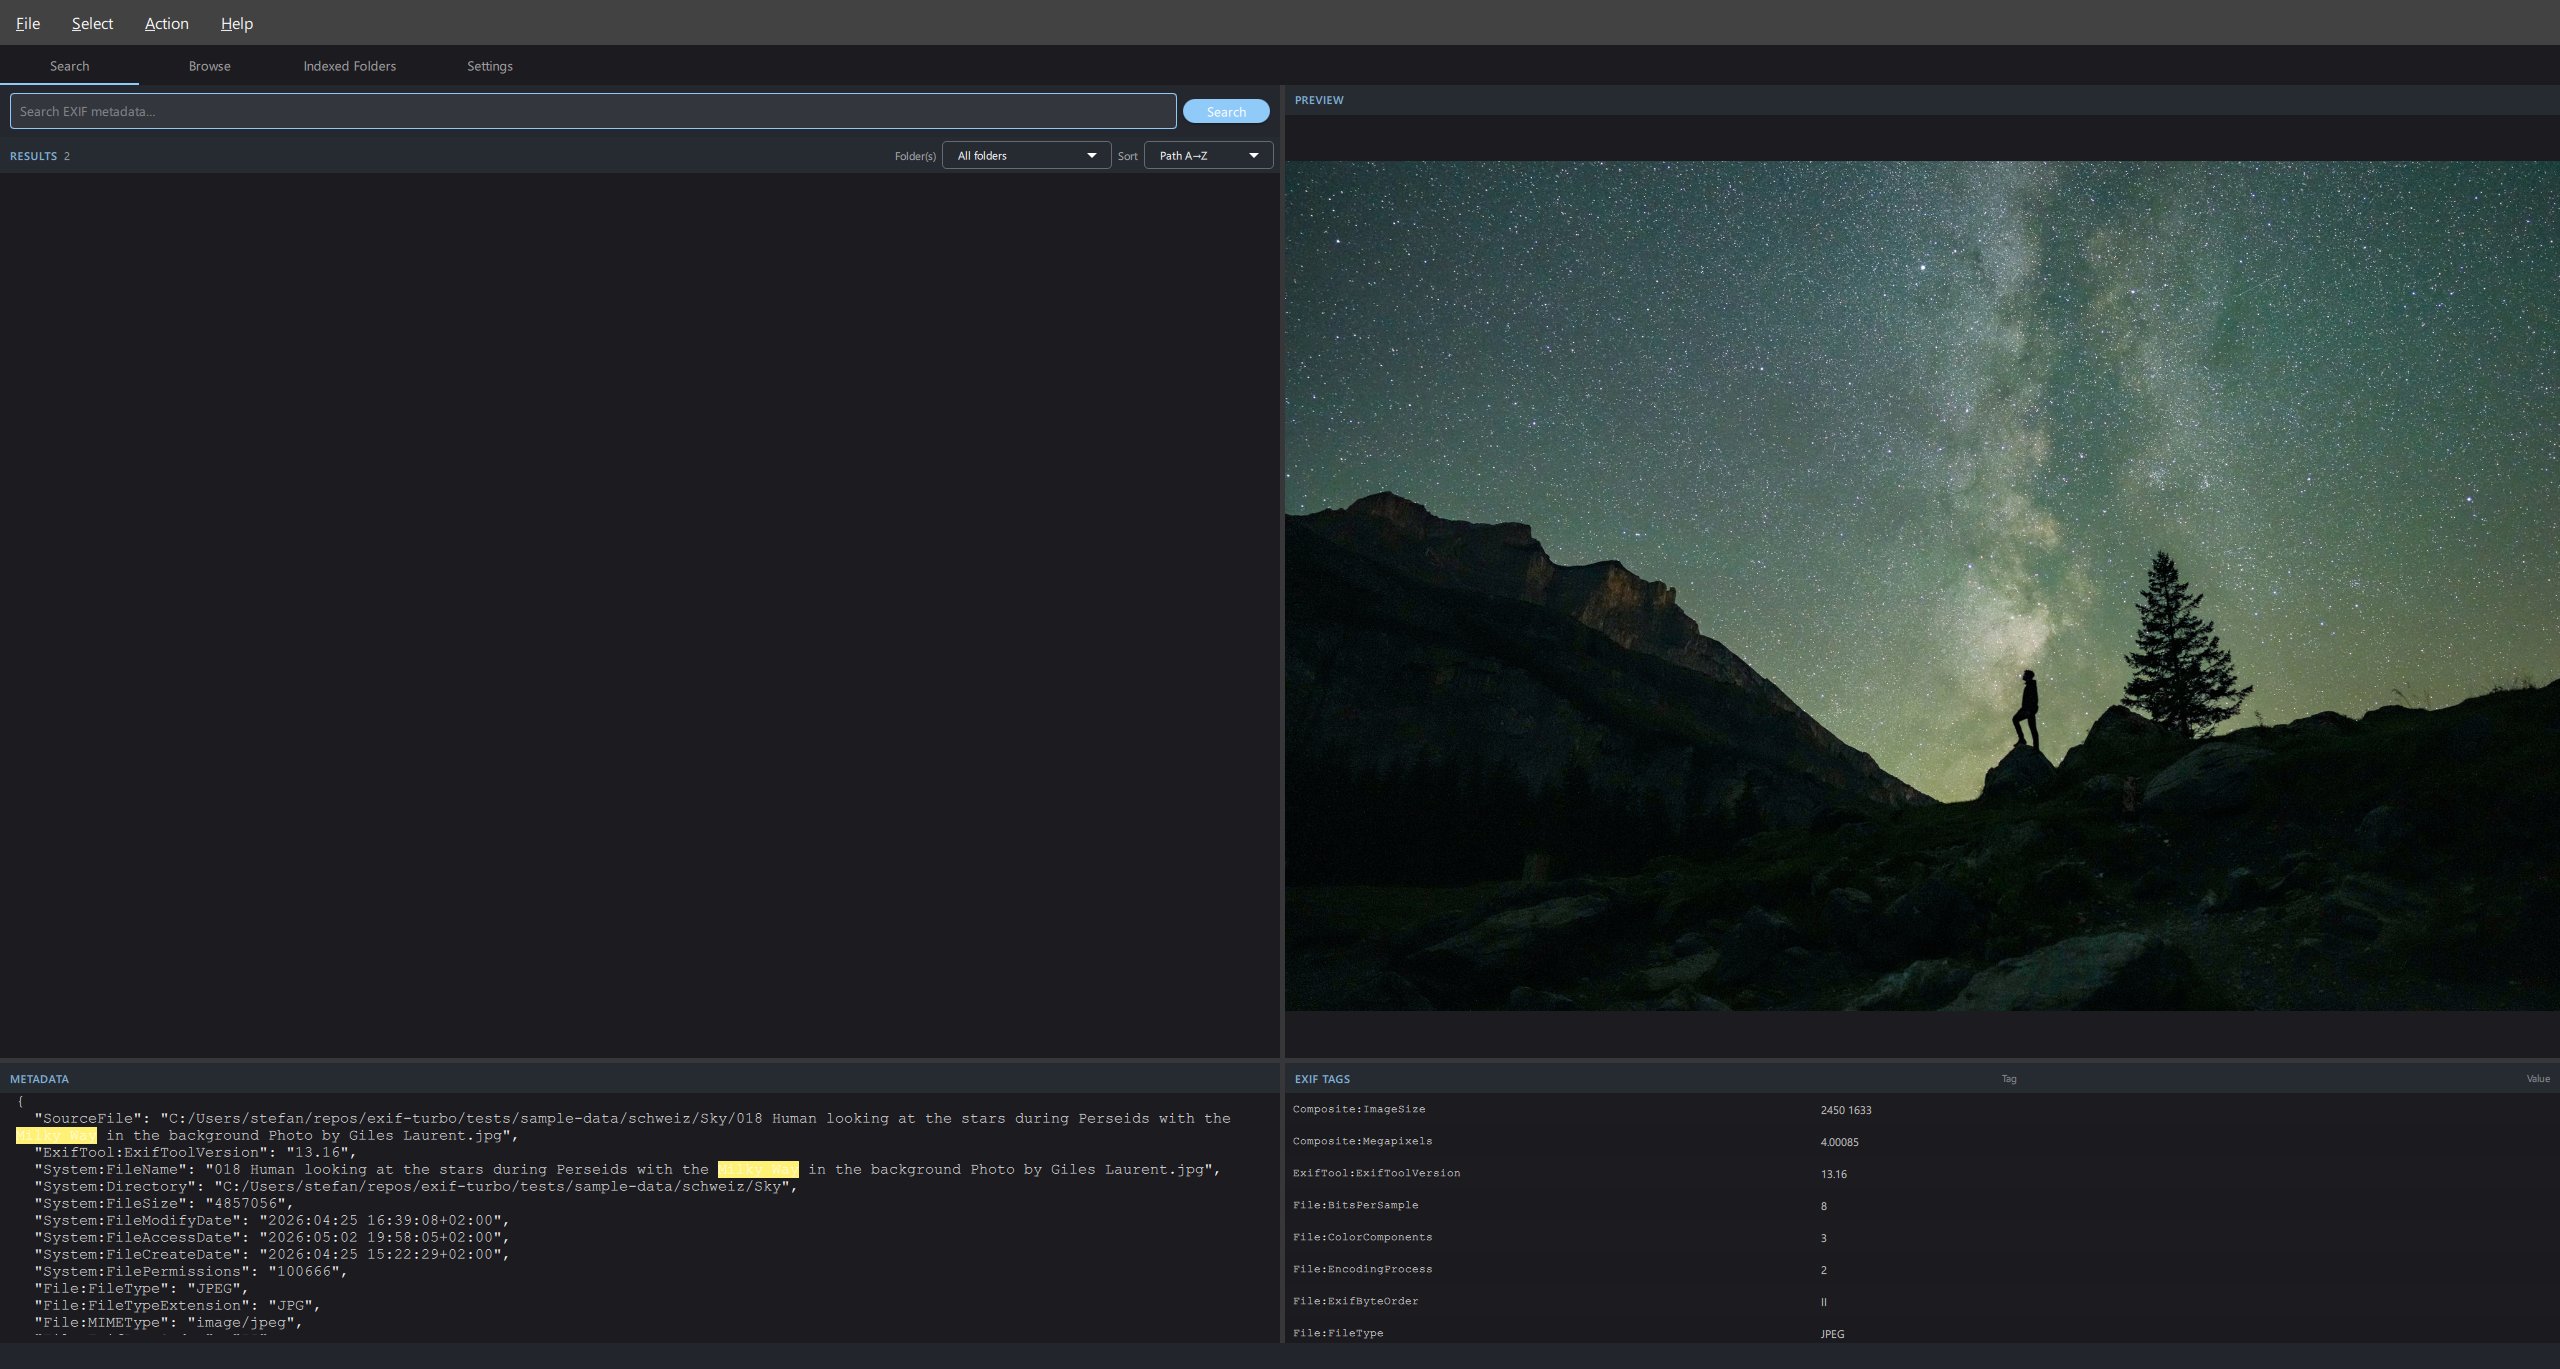
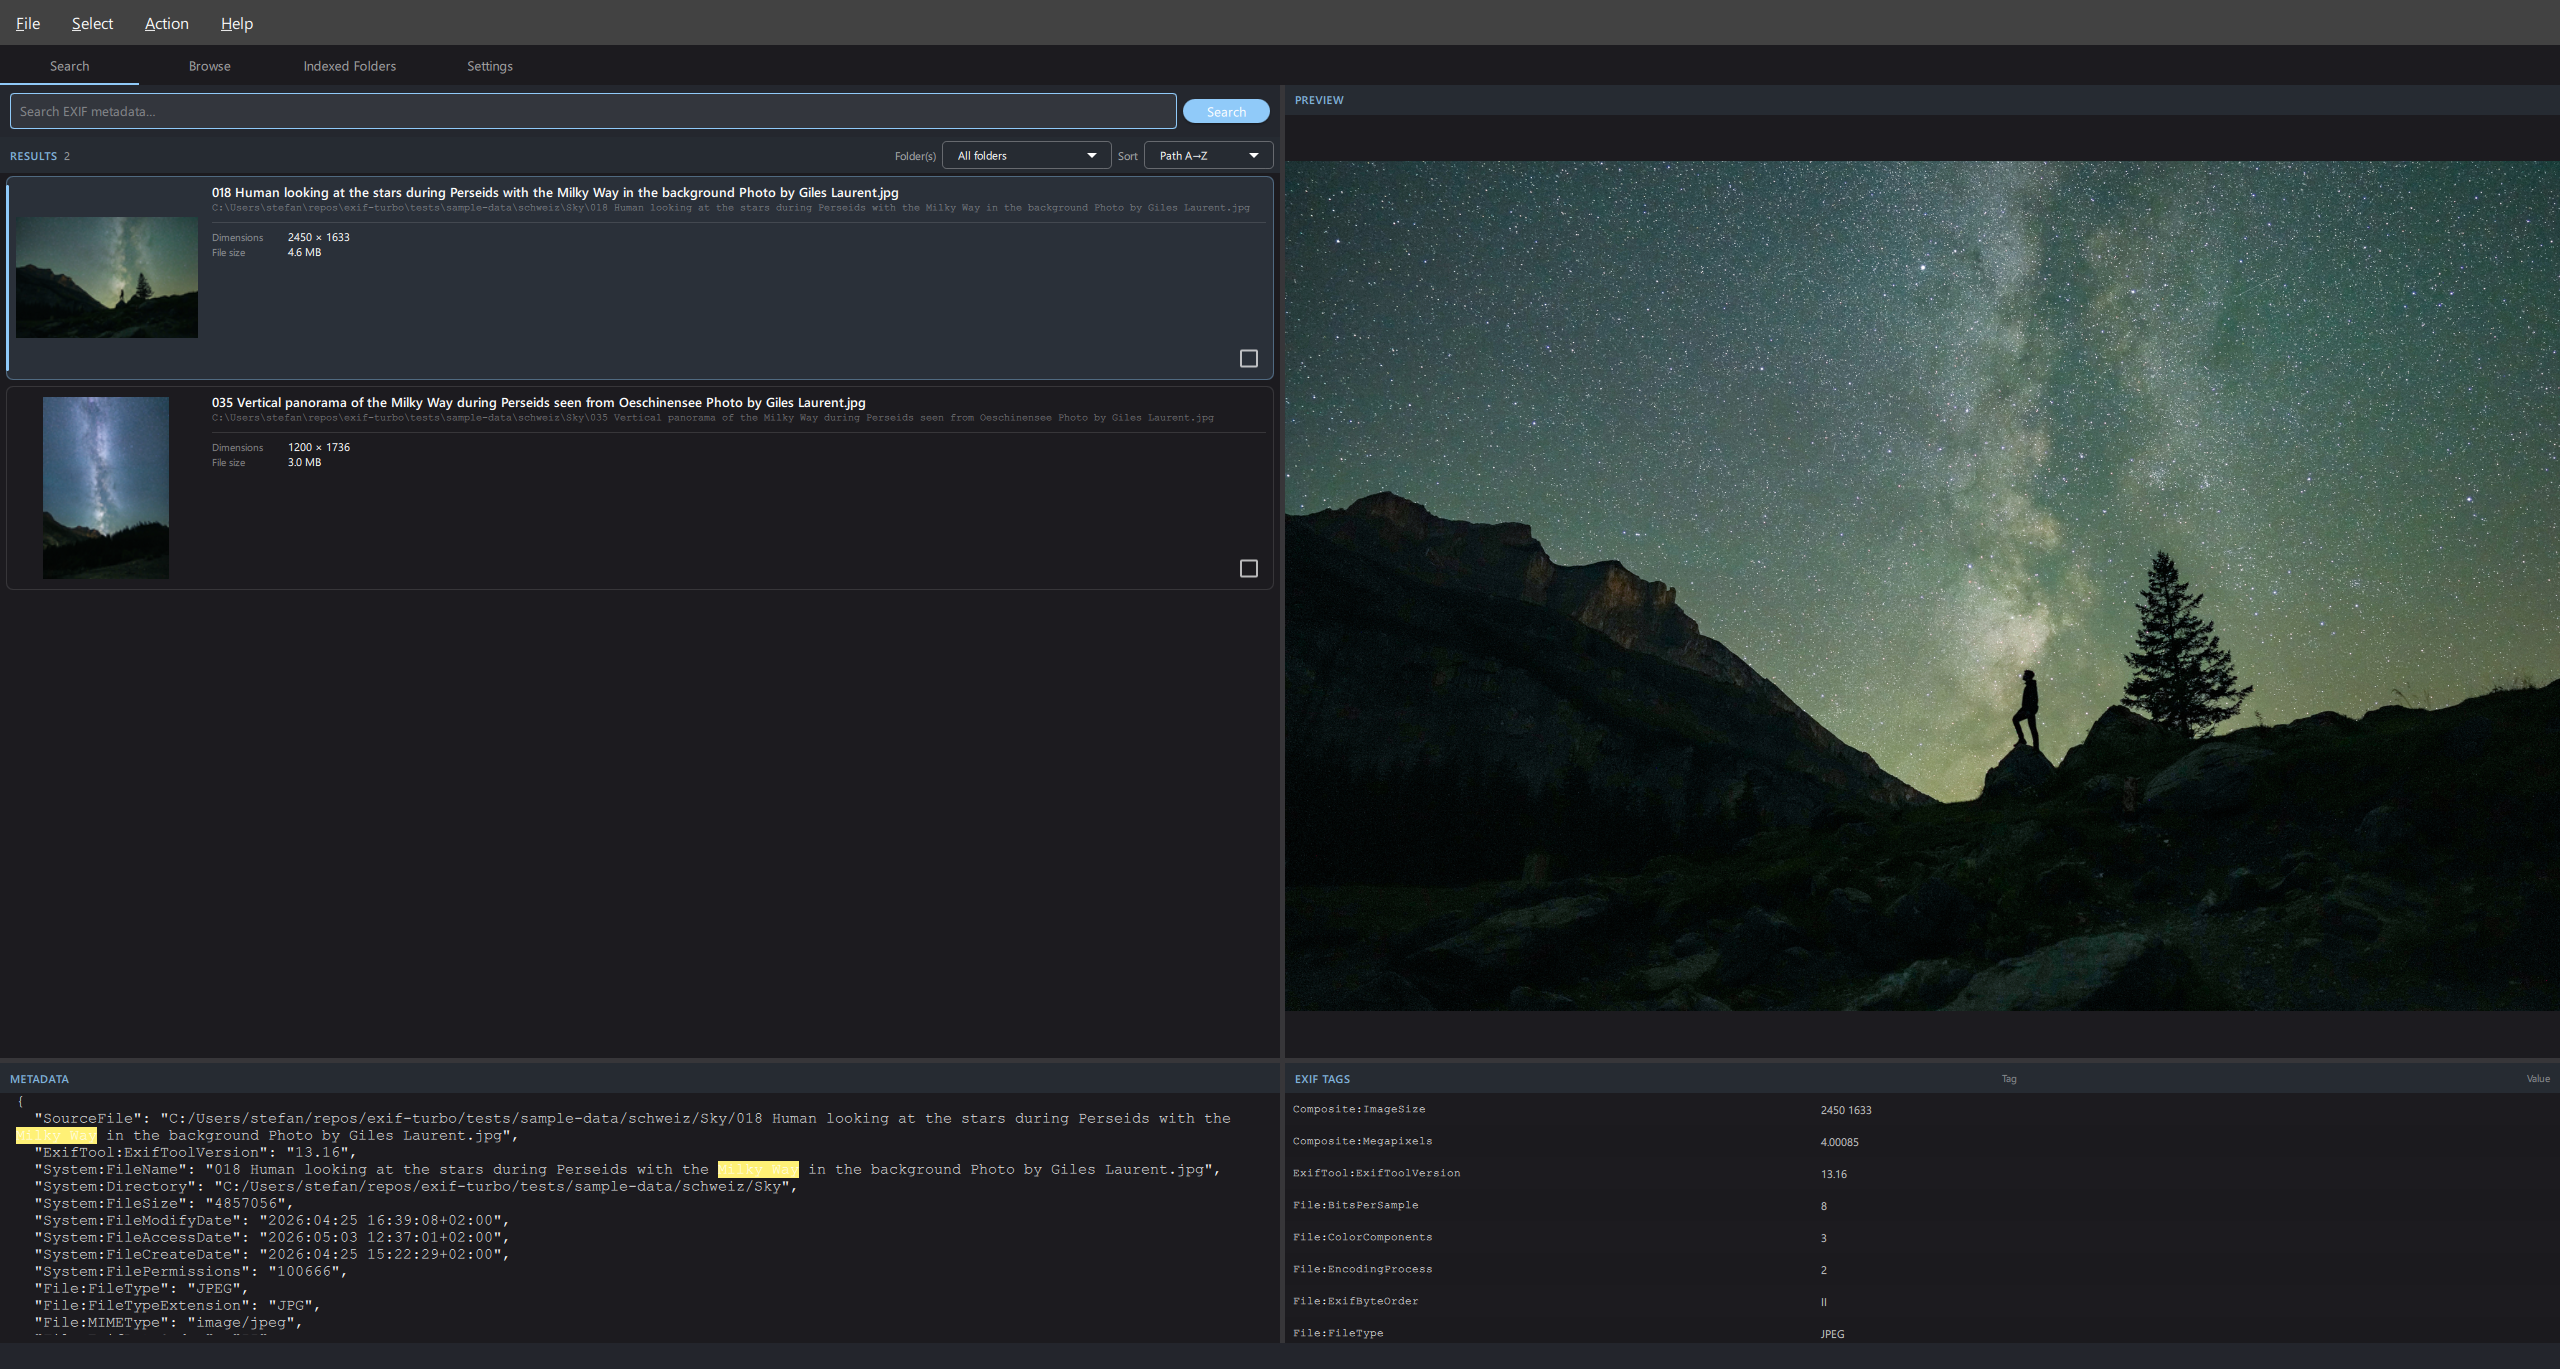
fix(screenshots): wire filteredSearchModel and thumb provider in capture script
The take_screenshots.py script was missing the CheckedFilterProxyModel and ThumbnailImageProvider that Main.qml expects, causing a 'filteredSearchModel is not defined' ReferenceError and an empty results grid in the captured PNGs. Regenerated all docs/screenshots.

Changed region(s): [[0.0, 0.1227, 0.5, 0.4295]]

diff --git a/scripts/take_screenshots.py b/scripts/take_screenshots.py
@@ -58,12 +58,14 @@ from PySide6.QtQuickControls2 import QQuickStyle  # noqa: E402
 from exif_turbo.data.image_index_repository import ImageIndexRepository  # noqa: E402
 from exif_turbo.data.indexed_folder_repository import IndexedFolderRepository  # noqa: E402
 from exif_turbo.indexing.indexer_service import IndexerService  # noqa: E402
+from exif_turbo.ui.models.checked_filter_proxy_model import CheckedFilterProxyModel  # noqa: E402
 from exif_turbo.ui.models.exif_list_model import ExifListModel  # noqa: E402
 from exif_turbo.ui.models.folder_list_model import FolderListModel  # noqa: E402
 from exif_turbo.ui.models.search_list_model import SearchListModel  # noqa: E402
 from exif_turbo.ui.models.settings_model import SettingsModel  # noqa: E402
 from exif_turbo.ui.providers.preview_image_provider import PreviewImageProvider  # noqa: E402
 from exif_turbo.ui.providers.raw_image_provider import RawImageProvider  # noqa: E402
+from exif_turbo.ui.providers.thumb_image_provider import ThumbnailImageProvider  # noqa: E402
 from exif_turbo.ui.view_models.app_controller import AppController  # noqa: E402
 
 _STEPS = [
@@ -234,14 +236,28 @@ def _run_gui() -> None:
     exif_model = ExifListModel()
     folder_model = FolderListModel()
     settings = SettingsModel(DB_PATH.parent / "settings.json")
-    ctrl = AppController(DB_PATH, search_model, exif_model, folder_model, settings)
+    thumb_provider = ThumbnailImageProvider()
+    ctrl = AppController(
+        DB_PATH,
+        search_model,
+        exif_model,
+        folder_model,
+        settings,
+        cache_dir=THUMB_CACHE,
+        thumb_provider=thumb_provider,
+    )
+    filter_proxy = CheckedFilterProxyModel()
+    filter_proxy.setSourceModel(search_model)
+    ctrl.set_filter_proxy(filter_proxy)
 
     engine = QQmlApplicationEngine()
     engine.addImageProvider("preview", PreviewImageProvider())
     engine.addImageProvider("raw", RawImageProvider())
+    engine.addImageProvider("thumb", thumb_provider)
     ctx = engine.rootContext()
     ctx.setContextProperty("controller", ctrl)
     ctx.setContextProperty("searchModel", search_model)
+    ctx.setContextProperty("filteredSearchModel", filter_proxy)
     ctx.setContextProperty("exifModel", exif_model)
     ctx.setContextProperty("folderListModel", folder_model)
     ctx.setContextProperty("settingsModel", settings)
